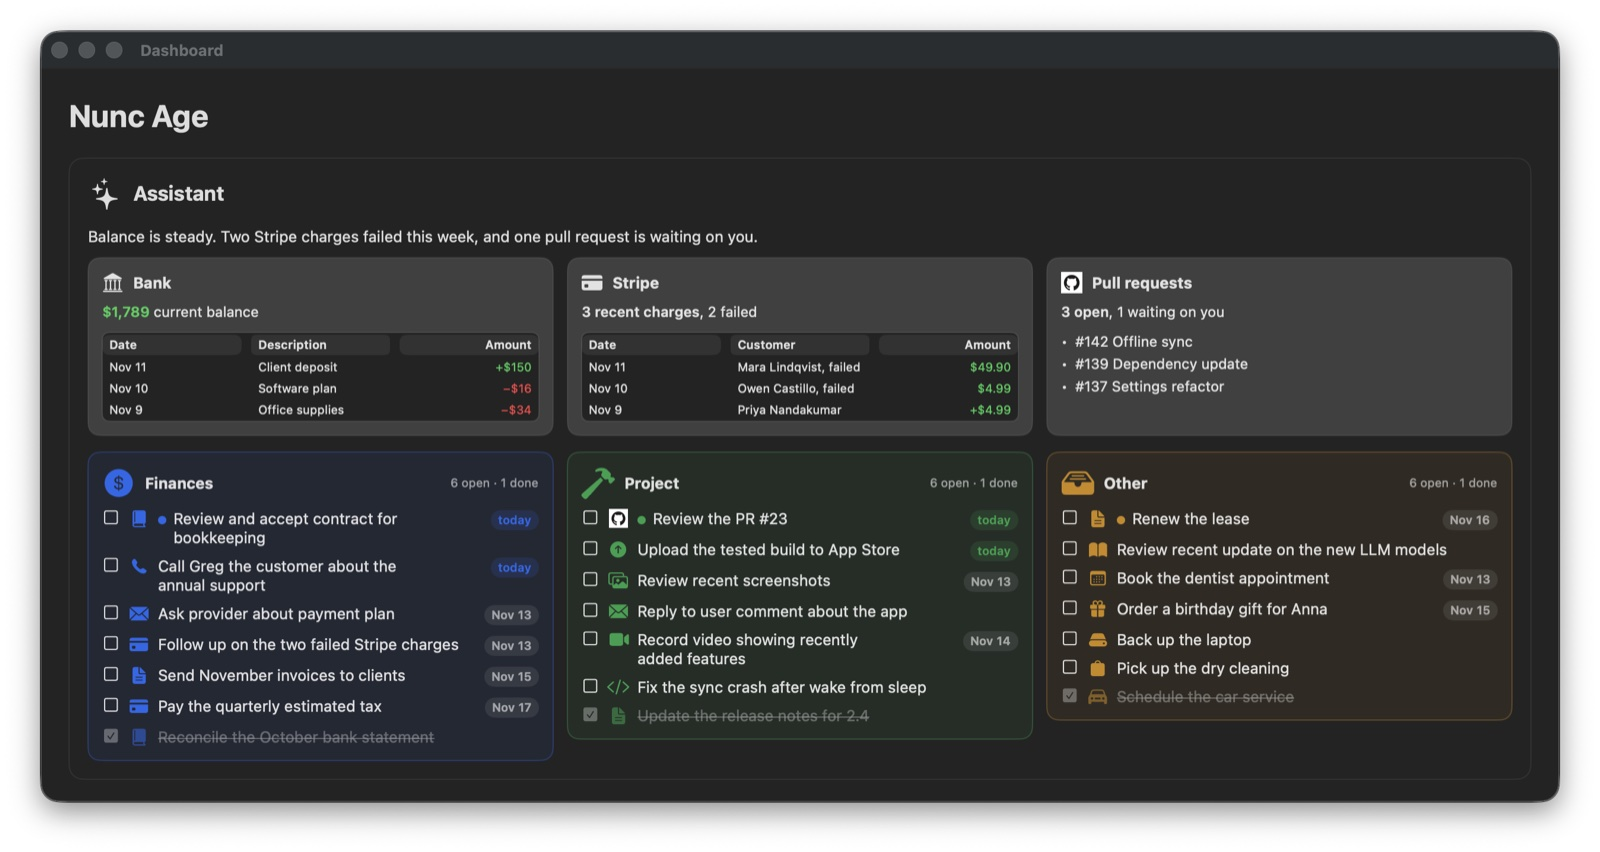
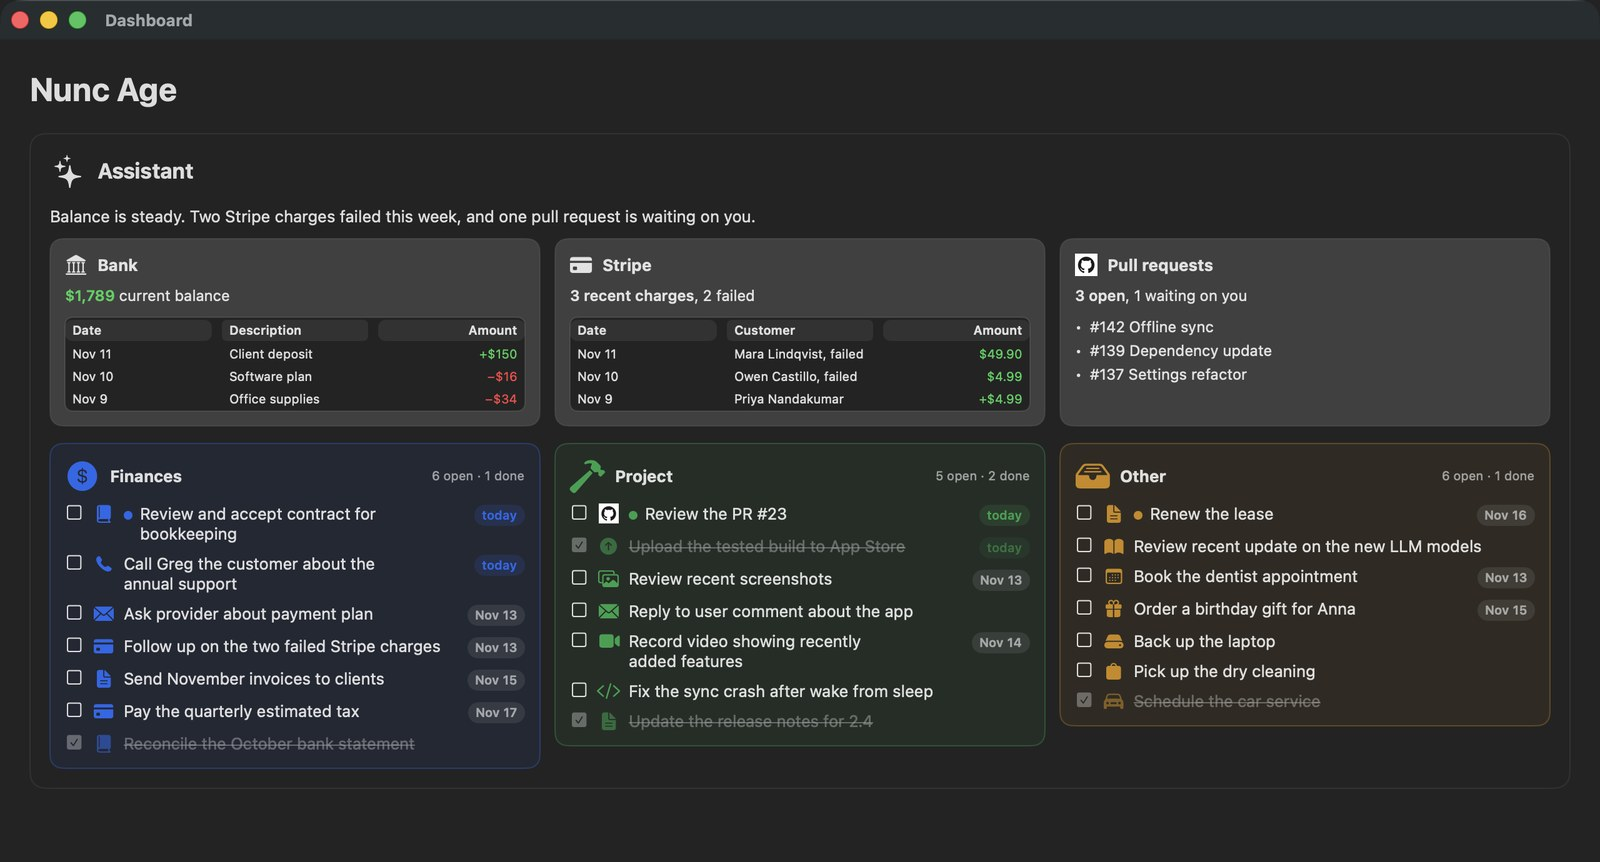
docs: add window-only 2.3 website, Setapp, and App Store screenshots (#9)
Replace the README pair and add 2880x1800 Setapp and Mac App Store sets, plus a short note on sizes and purpose.

diff --git a/docs/screenshots/README.md b/docs/screenshots/README.md
@@ -1,0 +1,25 @@
+# Screenshots
+
+Window-only shots of Nunc Age 2.3, used on the website, in this repository's README, and on store listings.
+
+## Website and README
+
+| File | Size | Purpose |
+| --- | --- | --- |
+| `nuncage_dashboard.jpg` | 1600×862 | The dashboard. Used on [diligiteiustitiam.world/nuncage/](https://diligiteiustitiam.world/nuncage/) and in the README. |
+| `nuncage_menu.jpg` | 822×1108 | The menu-bar list. Same places. |
+
+## Setapp
+
+16:10 shots, 2880×1800, in `setapp/`.
+
+| File | Subject |
+| --- | --- |
+| `01-dashboard.png` | Dashboard |
+| `02-menu.png` | Menu-bar list |
+| `03-tick.png` | Ticking an item done |
+| `04-settings.png` | Settings |
+
+## Mac App Store
+
+2880×1800 shots in `appstore/`, with the same names and subjects as the Setapp set.
